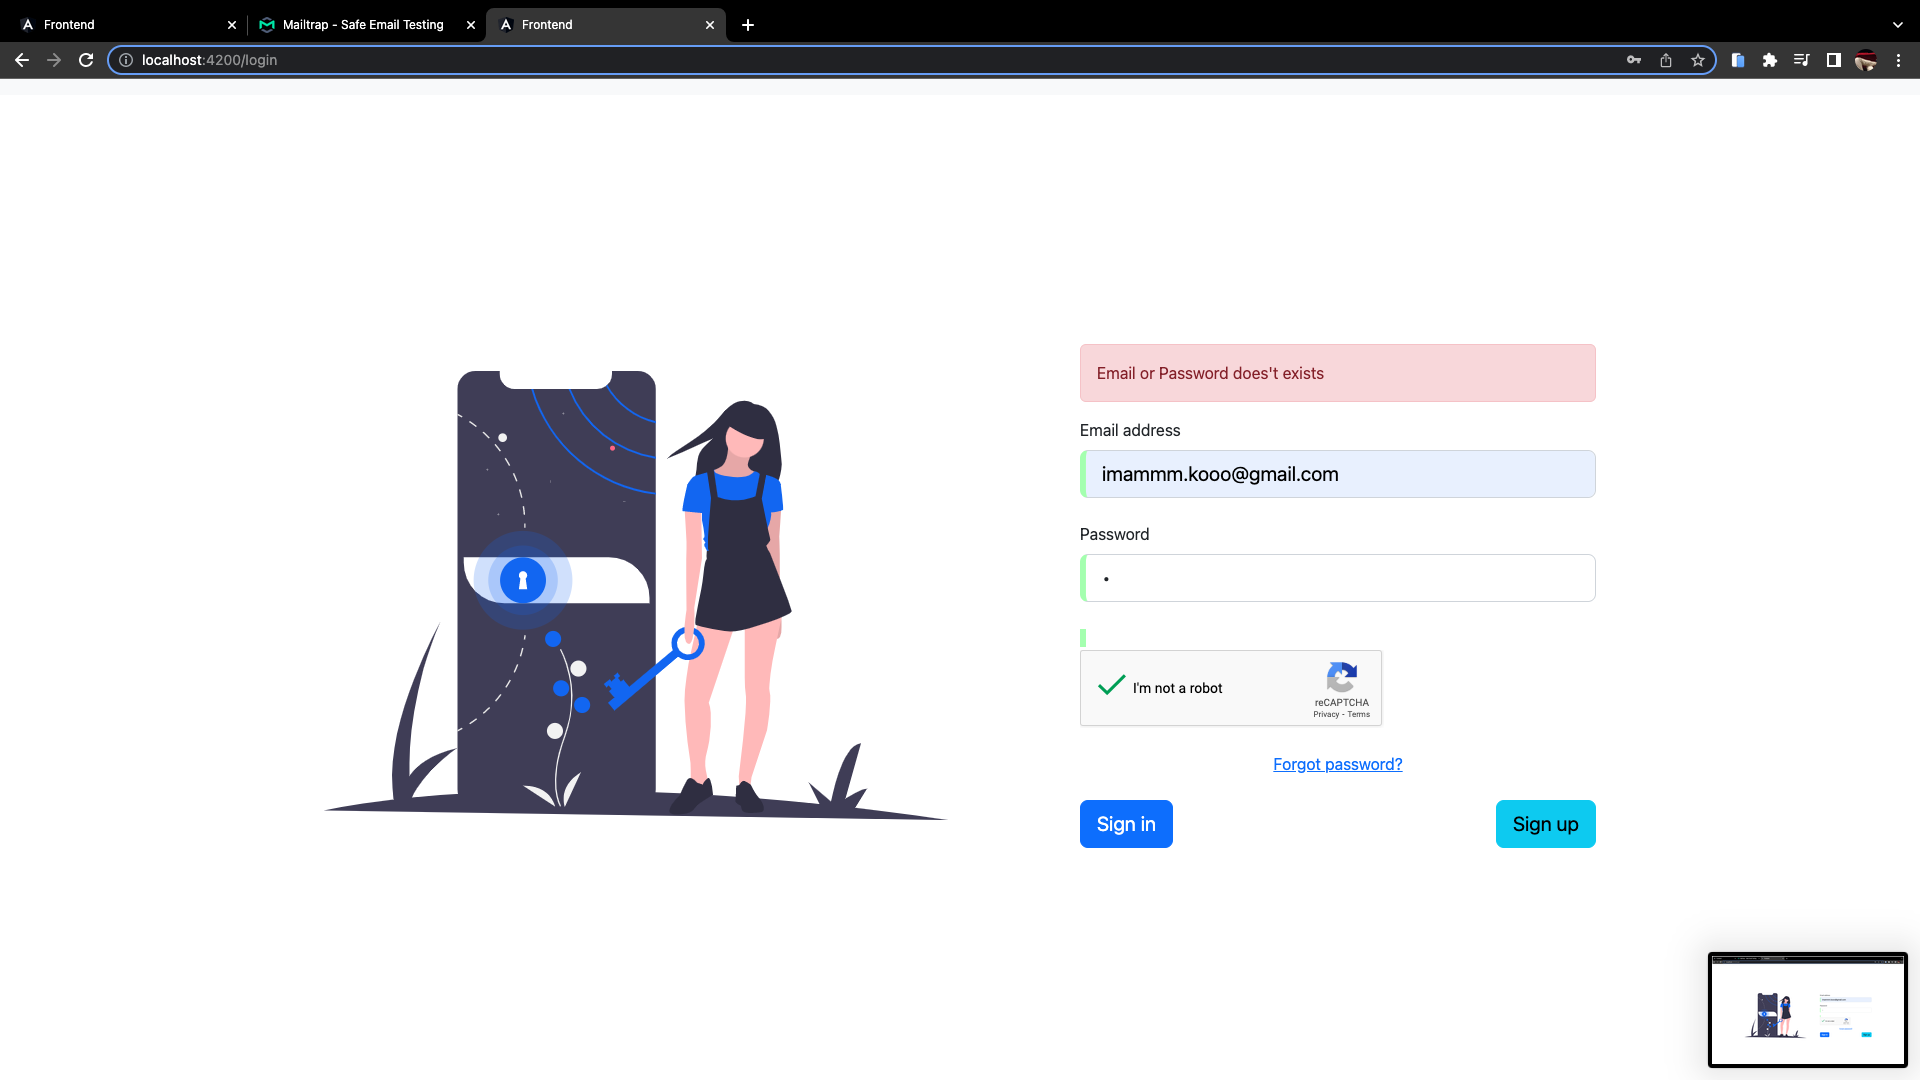
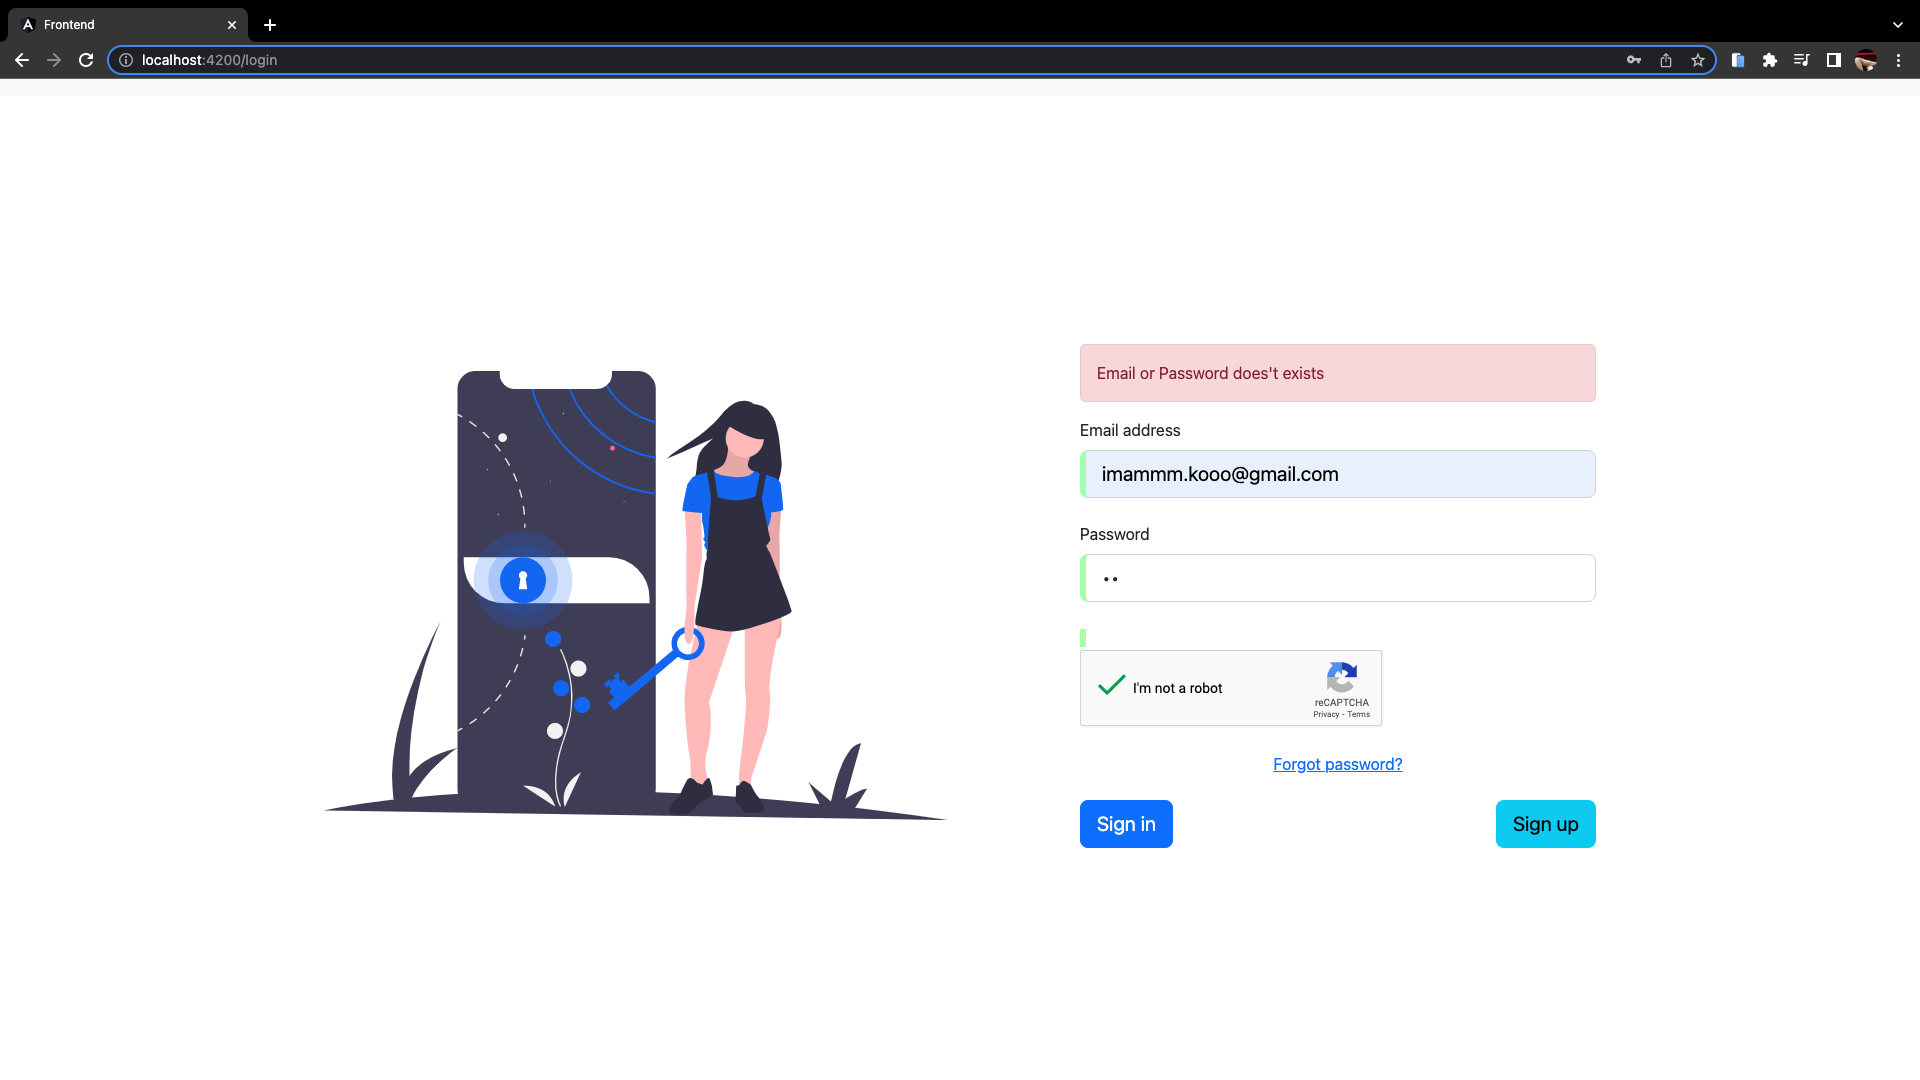
README.md

Changed region(s): [[0.875, 0.8556, 1.0, 1.0], [0.0, 0.0, 0.2188, 0.0611], [0.25, 0.0, 0.375, 0.0611]]

diff --git a/README.md b/README.md
@@ -28,7 +28,7 @@
 
 # Error Login
 
-![Error Login](https://user-images.githubusercontent.com/95548041/213343805-3cbabf19-05b3-46bd-93f4-2f5442642861.png)
+![Error Login](https://user-images.githubusercontent.com/95548041/213344715-035c3399-b082-4de2-ae71-2cc5e23ceb6e.png)
 
 # Wrong password 3 times
 
